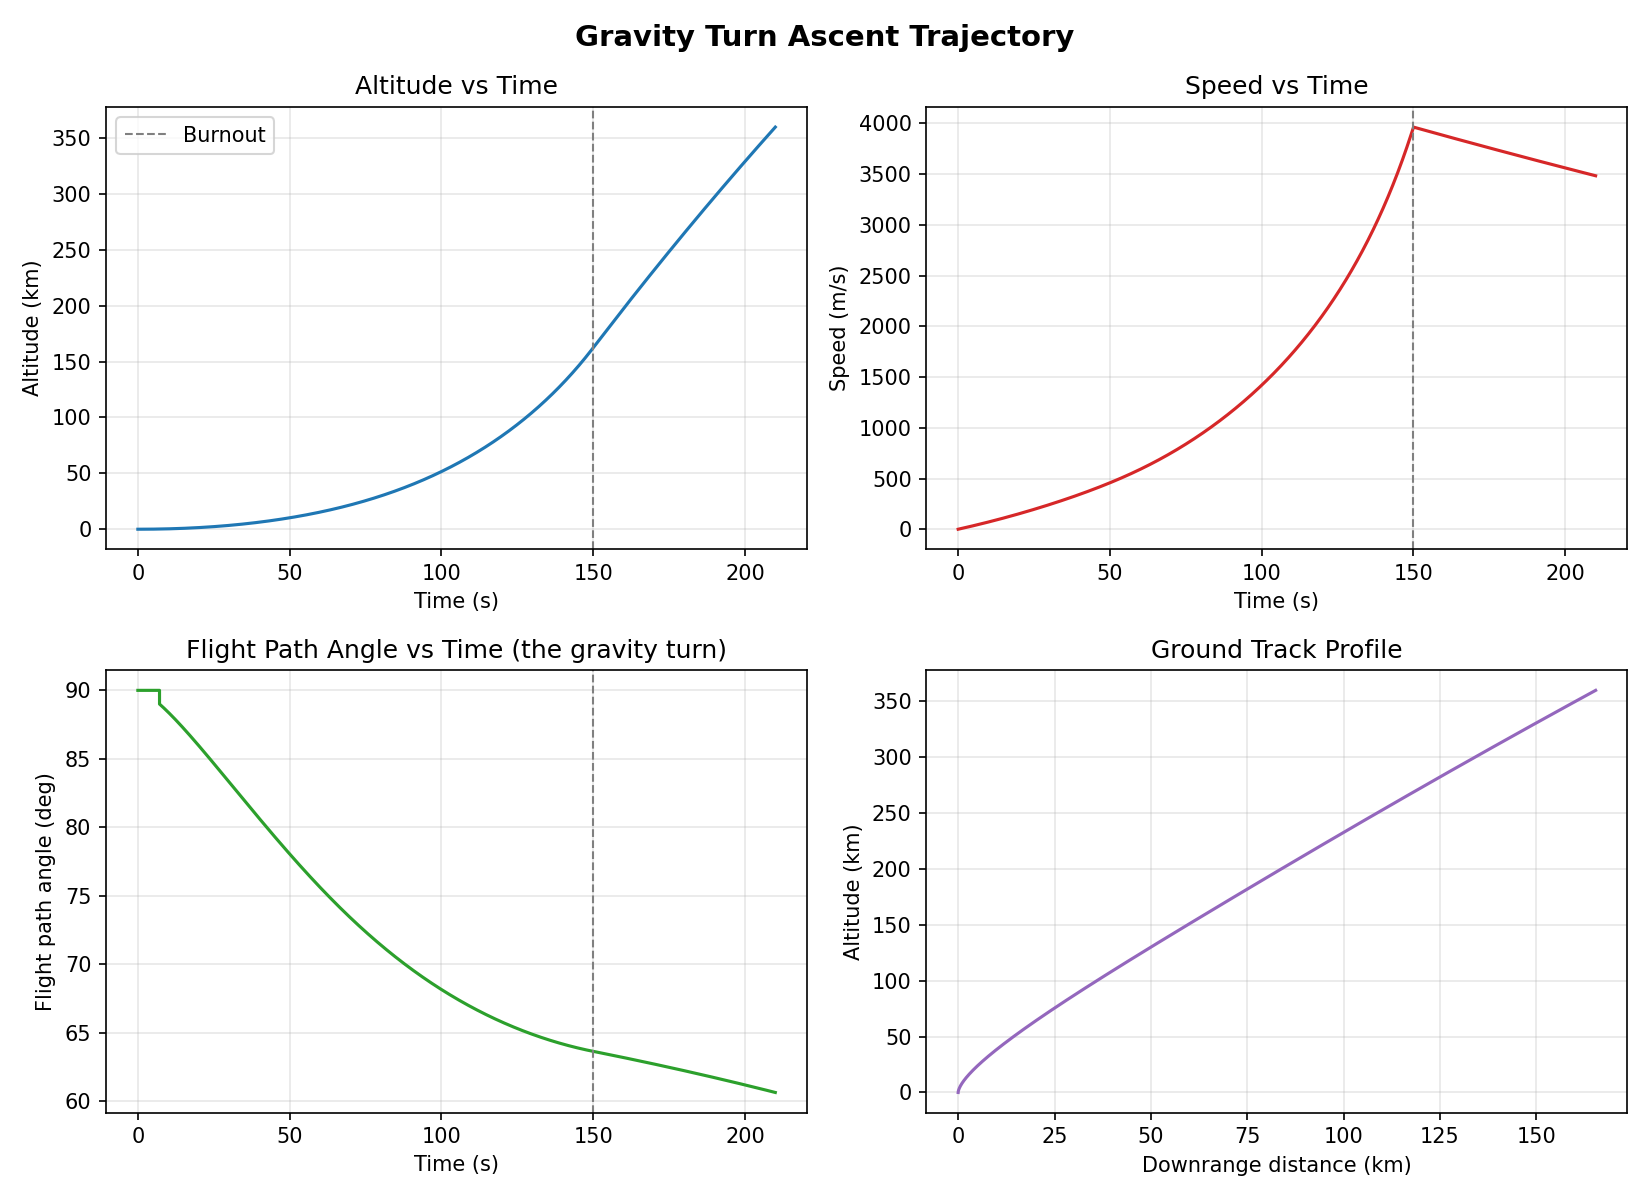
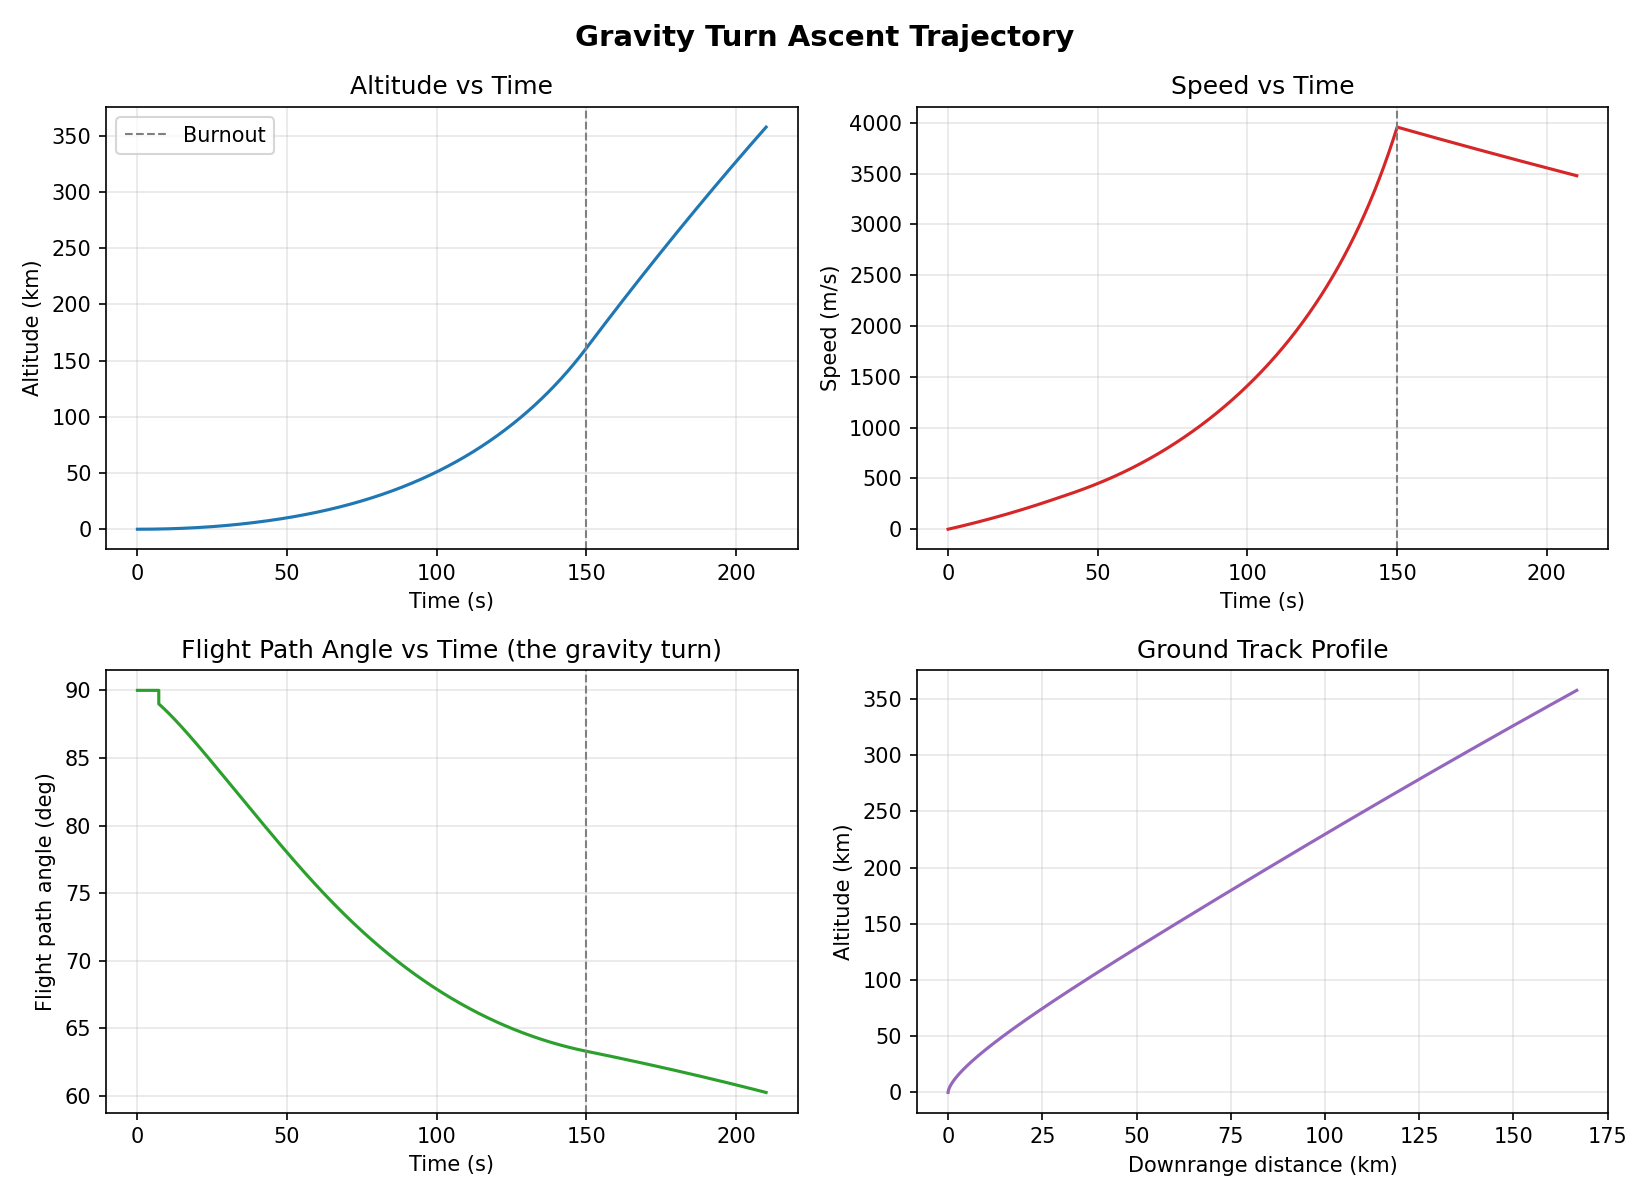
Add Mach-dependent drag coefficient, demonstrating realistic max-Q behavior

diff --git a/examples/mach_drag_demo.py b/examples/mach_drag_demo.py
@@ -1,0 +1,153 @@
+"""
+Day 4 example: Mach-dependent drag coefficient.
+
+Compares a vehicle's ascent using a constant drag coefficient (the
+older, simpler assumption) against the same vehicle using the
+Mach-dependent CD model (rocket_sim.aerodynamics), which captures the
+real transonic drag rise as the vehicle passes through the speed of
+sound -- a genuine physical effect ("max drag" typically occurs near
+Mach 1, not at the vehicle's peak speed).
+
+Run with: python examples/mach_drag_demo.py
+"""
+
+import sys
+import os
+
+sys.path.insert(0, os.path.join(os.path.dirname(__file__), ".."))
+
+import numpy as np
+import matplotlib.pyplot as plt
+from scipy.integrate import solve_ivp
+
+from rocket_sim.vehicle import Rocket
+from rocket_sim.simulate import run_gravity_turn_ascent
+from rocket_sim import atmosphere
+from rocket_sim import aerodynamics
+from rocket_sim.dynamics import R_EARTH
+
+
+def equations_of_motion_constant_cd(t, y, rocket):
+    """Same equations of motion as rocket_sim.dynamics, but using a
+    fixed CD instead of the Mach-dependent model -- for comparison."""
+    v, gamma, x, h, m = y
+    v_safe = max(v, 1e-6)
+    g = atmosphere.gravity(h)
+    rho = atmosphere.density(h)
+    T = rocket.thrust(m)
+    D = 0.5 * rho * v_safe**2 * rocket.A * rocket.CD  # constant CD, no Mach dependence
+    dv_dt = T / m - D / m - g * np.sin(gamma)
+    dgamma_dt = -(1.0 / v_safe) * (g - v_safe**2 / (R_EARTH + h)) * np.cos(gamma)
+    dx_dt = (R_EARTH / (R_EARTH + h)) * v_safe * np.cos(gamma)
+    dh_dt = v_safe * np.sin(gamma)
+    dm_dt = -rocket.mass_flow_rate(m)
+    return np.array([dv_dt, dgamma_dt, dx_dt, dh_dt, dm_dt])
+
+
+def run_constant_cd_ascent(rocket, t_span, kick_speed=50.0, kick_angle_deg=89.0, max_step=0.2):
+    """Two-phase ascent (vertical rise + pitchover), identical in
+    structure to run_gravity_turn_ascent, but using the fixed-CD
+    equations of motion for direct comparison."""
+    def hit_kick_speed(t, y):
+        return y[0] - kick_speed
+    hit_kick_speed.terminal = True
+    hit_kick_speed.direction = 1
+
+    sol1 = solve_ivp(
+        fun=lambda t, y: equations_of_motion_constant_cd(t, y, rocket),
+        t_span=t_span, y0=[1e-3, np.pi / 2, 0.0, 0.0, rocket.m0],
+        method="RK45", max_step=max_step, events=hit_kick_speed,
+        rtol=1e-8, atol=1e-10,
+    )
+    t_kick = sol1.t_events[0][0]
+    v, _, x, h, m = sol1.y_events[0][0]
+
+    sol2 = solve_ivp(
+        fun=lambda t, y: equations_of_motion_constant_cd(t, y, rocket),
+        t_span=(t_kick, t_span[1]), y0=[v, np.radians(kick_angle_deg), x, h, m],
+        method="RK45", max_step=max_step, rtol=1e-8, atol=1e-10,
+    )
+
+    t = np.concatenate([sol1.t, sol2.t[1:]])
+    v_arr = np.concatenate([sol1.y[0], sol2.y[0][1:]])
+    h_arr = np.concatenate([sol1.y[3], sol2.y[3][1:]])
+    return t, v_arr, h_arr
+
+
+def main():
+    rocket = Rocket(
+        m0=50_000.0, mf=8_000.0, Isp=300.0, burn_time=150.0, A=3.0, CD=0.3,
+    )
+
+    t_span = (0, rocket.burn_time + 20)
+
+    print("Running with constant CD...")
+    t_const, v_const, h_const = run_constant_cd_ascent(rocket, t_span)
+
+    print("Running with Mach-dependent CD...")
+    result = run_gravity_turn_ascent(rocket, t_span)
+    t_mach, v_mach, h_mach = result["t"], result["v"], result["h"]
+
+    # Compute drag force and CD over time for the Mach-dependent case,
+    # to show where the transonic drag spike actually occurs.
+    mach = aerodynamics.mach_number(np.maximum(v_mach, 1e-6), h_mach)
+    cd_eff = aerodynamics.drag_coefficient(mach, rocket.CD)
+    rho = atmosphere.density(h_mach)
+    drag_force = 0.5 * rho * v_mach**2 * rocket.A * cd_eff
+
+    print(f"\nConstant-CD burnout:      v={v_const[np.searchsorted(t_const, rocket.burn_time)]:.1f} m/s, "
+          f"h={h_const[np.searchsorted(t_const, rocket.burn_time)]/1000:.2f} km")
+    print(f"Mach-dependent burnout:    v={v_mach[np.searchsorted(t_mach, rocket.burn_time)]:.1f} m/s, "
+          f"h={h_mach[np.searchsorted(t_mach, rocket.burn_time)]/1000:.2f} km")
+
+    peak_drag_idx = np.argmax(drag_force)
+    print(f"\nPeak drag force: {drag_force[peak_drag_idx]/1000:.1f} kN at t={t_mach[peak_drag_idx]:.1f}s, "
+          f"Mach {mach[peak_drag_idx]:.2f}, altitude {h_mach[peak_drag_idx]/1000:.2f} km "
+          f"(this is 'max-Q' territory)")
+
+    # --- Plotting ---
+    fig, axes = plt.subplots(2, 2, figsize=(11, 8))
+    fig.suptitle("Effect of Mach-Dependent Drag Coefficient", fontsize=14, fontweight="bold")
+
+    mach_range = np.linspace(0, 5, 300)
+    axes[0, 0].plot(mach_range, aerodynamics.drag_coefficient(mach_range, rocket.CD), color="tab:red")
+    axes[0, 0].axvline(1.0, color="gray", linestyle="--", linewidth=1, label="Mach 1")
+    axes[0, 0].set_xlabel("Mach number")
+    axes[0, 0].set_ylabel("Drag coefficient CD")
+    axes[0, 0].set_title("CD vs Mach (transonic drag rise)")
+    axes[0, 0].legend()
+    axes[0, 0].grid(alpha=0.3)
+
+    axes[0, 1].plot(t_mach, mach, color="tab:orange")
+    axes[0, 1].axhline(1.0, color="gray", linestyle="--", linewidth=1, label="Mach 1")
+    axes[0, 1].set_xlabel("Time (s)")
+    axes[0, 1].set_ylabel("Mach number")
+    axes[0, 1].set_title("Mach Number vs Time")
+    axes[0, 1].legend()
+    axes[0, 1].grid(alpha=0.3)
+
+    axes[1, 0].plot(t_mach, drag_force / 1000, color="tab:purple")
+    axes[1, 0].axvline(t_mach[peak_drag_idx], color="gray", linestyle="--", linewidth=1, label="Peak drag")
+    axes[1, 0].set_xlabel("Time (s)")
+    axes[1, 0].set_ylabel("Drag force (kN)")
+    axes[1, 0].set_title("Drag Force vs Time (Mach-dependent CD)")
+    axes[1, 0].legend()
+    axes[1, 0].grid(alpha=0.3)
+
+    axes[1, 1].plot(t_const, h_const / 1000, color="tab:gray", linestyle="--", label="Constant CD")
+    axes[1, 1].plot(t_mach, h_mach / 1000, color="tab:blue", label="Mach-dependent CD")
+    axes[1, 1].set_xlabel("Time (s)")
+    axes[1, 1].set_ylabel("Altitude (km)")
+    axes[1, 1].set_title("Altitude: Constant vs Mach-Dependent CD")
+    axes[1, 1].legend()
+    axes[1, 1].grid(alpha=0.3)
+
+    plt.tight_layout()
+    out_path = os.path.join(os.path.dirname(__file__), "..", "plots", "mach_drag_demo.png")
+    plt.savefig(out_path, dpi=150)
+    print(f"\nPlot saved to {os.path.abspath(out_path)}")
+    plt.show()
+
+
+if __name__ == "__main__":
+    main()

diff --git a/rocket_sim/aerodynamics.py b/rocket_sim/aerodynamics.py
@@ -1,0 +1,89 @@
+"""
+Mach-dependent drag coefficient model.
+
+Real drag coefficients are not constant with speed: as a vehicle
+approaches the speed of sound, shock waves begin to form and wave drag
+causes CD to rise sharply (the classic "transonic drag rise"), peaking
+somewhere around Mach 1.0-1.1, before gradually decreasing at
+supersonic speeds as the shock structure stabilizes.
+
+This module provides a representative CD(Mach) SHAPE for a slender,
+axisymmetric body (typical of a rocket/missile airframe), expressed as
+a multiplier on a user-supplied subsonic baseline CD. It is NOT
+wind-tunnel data for any specific vehicle -- real CD-Mach curves are
+determined experimentally or via CFD for a given geometry -- but it
+captures the correct qualitative and roughly-correct quantitative
+behavior (a multi-fold rise through transonic, then supersonic
+relaxation), which is the dominant physical effect missing from a
+constant-CD assumption.
+"""
+
+import numpy as np
+from scipy.interpolate import PchipInterpolator
+from rocket_sim.atmosphere import speed_of_sound
+
+# Control points (Mach, CD multiplier relative to the subsonic baseline)
+# describing the classic transonic drag-rise shape for a slender body:
+#   - flat and close to 1.0 through the subsonic regime
+#   - sharp rise through transonic (shock formation), peaking near Mach 1.05
+#   - gradual relaxation through supersonic speeds toward a lower
+#     asymptotic multiplier as the shock structure stabilizes
+_MACH_POINTS = np.array([0.0, 0.6, 0.8, 0.9, 1.0, 1.05, 1.2, 1.5, 2.0, 3.0, 5.0, 8.0])
+_MULTIPLIER_POINTS = np.array([1.00, 1.00, 1.05, 1.25, 1.60, 1.80, 1.65, 1.35, 1.05, 0.80, 0.65, 0.60])
+
+# PchipInterpolator: monotone piecewise cubic Hermite interpolation --
+# avoids the overshoot/oscillation a plain cubic spline could introduce
+# between control points, which matters here since the curve shape
+# (not just the control points) carries physical meaning.
+_cd_multiplier_curve = PchipInterpolator(_MACH_POINTS, _MULTIPLIER_POINTS, extrapolate=False)
+
+_MACH_MIN = float(_MACH_POINTS[0])
+_MACH_MAX = float(_MACH_POINTS[-1])
+
+
+def cd_multiplier(mach):
+    """
+    Return the CD multiplier (relative to a subsonic baseline) for a
+    given Mach number, following the representative transonic drag-rise
+    curve. Mach numbers below 0 are clipped to 0; above _MACH_MAX, the
+    curve's final (asymptotic) value is held constant.
+    """
+    mach = np.asarray(mach, dtype=float)
+    mach_clipped = np.clip(mach, _MACH_MIN, _MACH_MAX)
+    return _cd_multiplier_curve(mach_clipped)
+
+
+def mach_number(v, h):
+    """
+    Compute the Mach number for a given speed v (m/s) at altitude h (m),
+    using the ISA-derived local speed of sound.
+    """
+    a = speed_of_sound(h)
+    return v / a
+
+
+def drag_coefficient(mach, cd0):
+    """
+    Return the effective drag coefficient at a given Mach number, as
+    cd0 (the vehicle's subsonic baseline CD) scaled by the representative
+    transonic/supersonic multiplier curve.
+
+    Parameters
+    ----------
+    mach : float or array-like
+        Mach number.
+    cd0 : float
+        Subsonic baseline drag coefficient for the vehicle (this is
+        the same CD value used elsewhere in this project as a single
+        constant -- here it becomes the subsonic reference point that
+        the Mach-dependent curve scales from).
+    """
+    return cd0 * cd_multiplier(mach)
+
+
+if __name__ == "__main__":
+    # Quick sanity check / illustration when running this file directly.
+    print(f"{'Mach':>6} | {'CD multiplier':>14} | {'CD (cd0=0.3)':>13}")
+    for m in [0.0, 0.5, 0.8, 0.9, 1.0, 1.05, 1.2, 1.5, 2.0, 3.0, 5.0]:
+        mult = float(cd_multiplier(m))
+        print(f"{m:6.2f} | {mult:14.3f} | {0.3*mult:13.3f}")

diff --git a/rocket_sim/dynamics.py b/rocket_sim/dynamics.py
@@ -16,10 +16,16 @@ Equations (Curtis 11.6, 11.7, 11.8, and mass depletion):
     dx/dt     = [R_E / (R_E + h)] * v * cos(gamma)
     dh/dt     = v * sin(gamma)
     dm/dt     = -mdot   (while propellant remains)
+
+Drag uses a Mach-dependent coefficient (rocket_sim.aerodynamics): the
+vehicle's CD attribute is treated as its subsonic baseline value, scaled
+by a representative transonic-drag-rise curve based on the local Mach
+number (computed from the ISA speed of sound at the current altitude).
 """
 
 import numpy as np
 from rocket_sim import atmosphere
+from rocket_sim import aerodynamics
 from rocket_sim.atmosphere import R_EARTH
 
 
@@ -35,7 +41,10 @@ def equations_of_motion(t, y, rocket, constant_gravity=False):
     y : array-like, shape (5,)
         Current state [v, gamma, x, h, m].
     rocket : rocket_sim.vehicle.Rocket
-        The vehicle providing thrust(m), mass_flow_rate(m), A, CD.
+        The vehicle providing thrust(m), mass_flow_rate(m), A, CD. CD is
+        treated as the subsonic baseline drag coefficient; the actual
+        drag coefficient used varies with Mach number (see
+        rocket_sim.aerodynamics.drag_coefficient).
     constant_gravity : bool, optional
         If True, use a fixed sea-level gravity (9.80665 m/s^2) instead
         of the inverse-square variation with altitude. This is used to
@@ -59,8 +68,11 @@ def equations_of_motion(t, y, rocket, constant_gravity=False):
 
     rho = atmosphere.density(h)
 
+    mach = aerodynamics.mach_number(v_safe, h)
+    cd_effective = aerodynamics.drag_coefficient(mach, rocket.CD)
+
     T = rocket.thrust(m)
-    D = 0.5 * rho * v_safe**2 * rocket.A * rocket.CD
+    D = 0.5 * rho * v_safe**2 * rocket.A * cd_effective
 
     dv_dt = T / m - D / m - g * np.sin(gamma)
 

diff --git a/README.md b/README.md
@@ -43,6 +43,10 @@ closed-form analytic solution before adding harder physics on top.
   Atmosphere (ISA) model (troposphere through mesosphere, with the
   correct temperature lapse rate in each layer), validated against
   published ISA reference tables to 4-5 significant figures
+- **Mach-dependent drag coefficient** — CD scales with a representative
+  transonic drag-rise curve (peaking near Mach 1.05) instead of staying
+  constant, correctly producing a "max-Q" drag peak that occurs well
+  before the vehicle's top speed, not at it
 - **Variable mass & altitude-dependent gravity** — no constant-mass or
   constant-g shortcuts in the general model
 - **Multi-stage separation** — models a real launch vehicle dropping its
@@ -73,6 +77,16 @@ See the trajectory at the top of this README. Note the kink in the speed
 curve and the sharp drop in mass at each stage separation — this is why
 staging works: dropping dead structural weight lets the remaining engine
 accelerate a much smaller mass.
+
+### Mach-dependent drag ("max-Q")
+![Mach-dependent drag](assets/mach_drag_demo.png)
+
+Peak aerodynamic drag on this vehicle occurs at Mach 1.09, roughly 40
+seconds into flight at 6.4 km altitude — nowhere near the vehicle's top
+speed (reached much later, near burnout at ~4 km/s). This is the
+real "max-Q" phenomenon well known in launch vehicle design: drag peaks
+during the transonic speed range where shock-wave formation spikes the
+drag coefficient, not simply where speed is highest.
 
 ### Validation against Curtis's Example 11.1
 
@@ -175,6 +189,9 @@ python examples/orbital_insertion_check.py
 # Curtis's own worked example)
 python examples/validate_optimal_staging.py
 python examples/optimal_staging_demo.py
+
+# Compare constant-CD vs Mach-dependent CD ("max-Q" behavior)
+python examples/mach_drag_demo.py
 ```
 
 Each script prints key trajectory milestones to the console and saves a
@@ -185,9 +202,6 @@ plot to `plots/`.
 - Active/closed-loop guidance — continuously adjusting the thrust vector
   during ascent to reliably hit a precise target orbit, rather than relying
   on a single open-loop pitchover kick
-- Mach-dependent drag coefficient, using the ISA model's temperature output
-  to compute local speed of sound and Mach number (the groundwork for this
-  -- `atmosphere.speed_of_sound()` -- is already in place)
 - Monte Carlo dispersion analysis on Isp/mass uncertainties
 
 ## References
